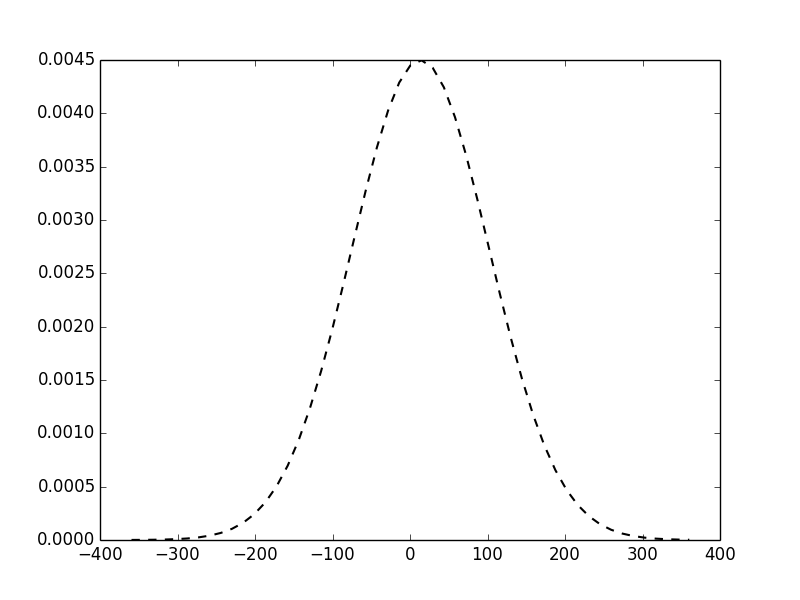
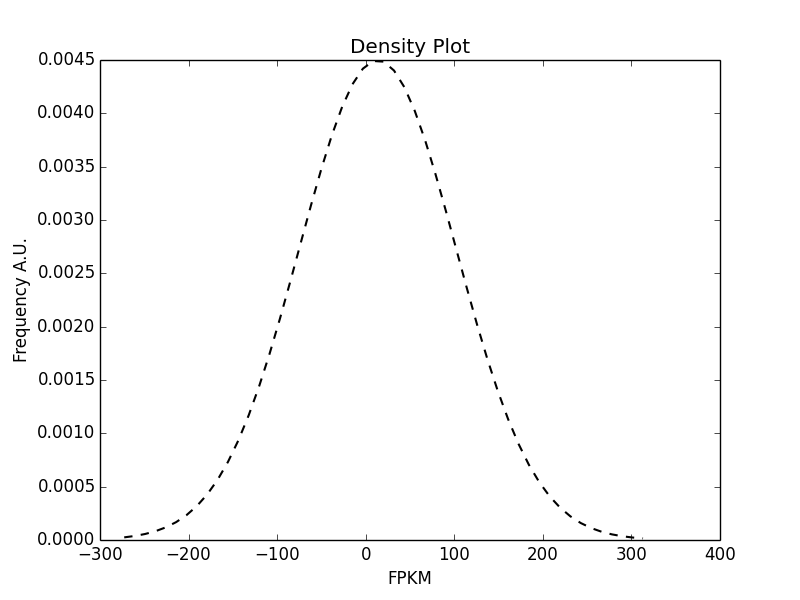
Problem 3 code and output

diff --git a/day3/lunchassignment3.py b/day3/lunchassignment3.py
@@ -11,7 +11,7 @@ mean = np.mean(df["FPKM"])
 stddev = np.std(df["FPKM"])
 
 #mu, sigma = 
-x = mean + stddev * p.randn(10000)
+x = mean + stddev * p.randn(1000)
 
 #mean = 13.4813251272 
 #stddev = 88.6996601083
@@ -21,6 +21,10 @@ p.setp(patches, 'facecolor', 'g', 'alpha', 0.75)
 
 y = p.normpdf(bins, mean, stddev)
 
+
 plt.figure()
-plt.plot(bins,  y, 'k--', linewidth = 1.5)
+plt.plot(bins, y, 'k--', linewidth = 1.5)
+plt.xlabel("FPKM")
+plt.ylabel("Frequency A.U.")
+plt.title("Density Plot")
 plt.savefig("density.png")
